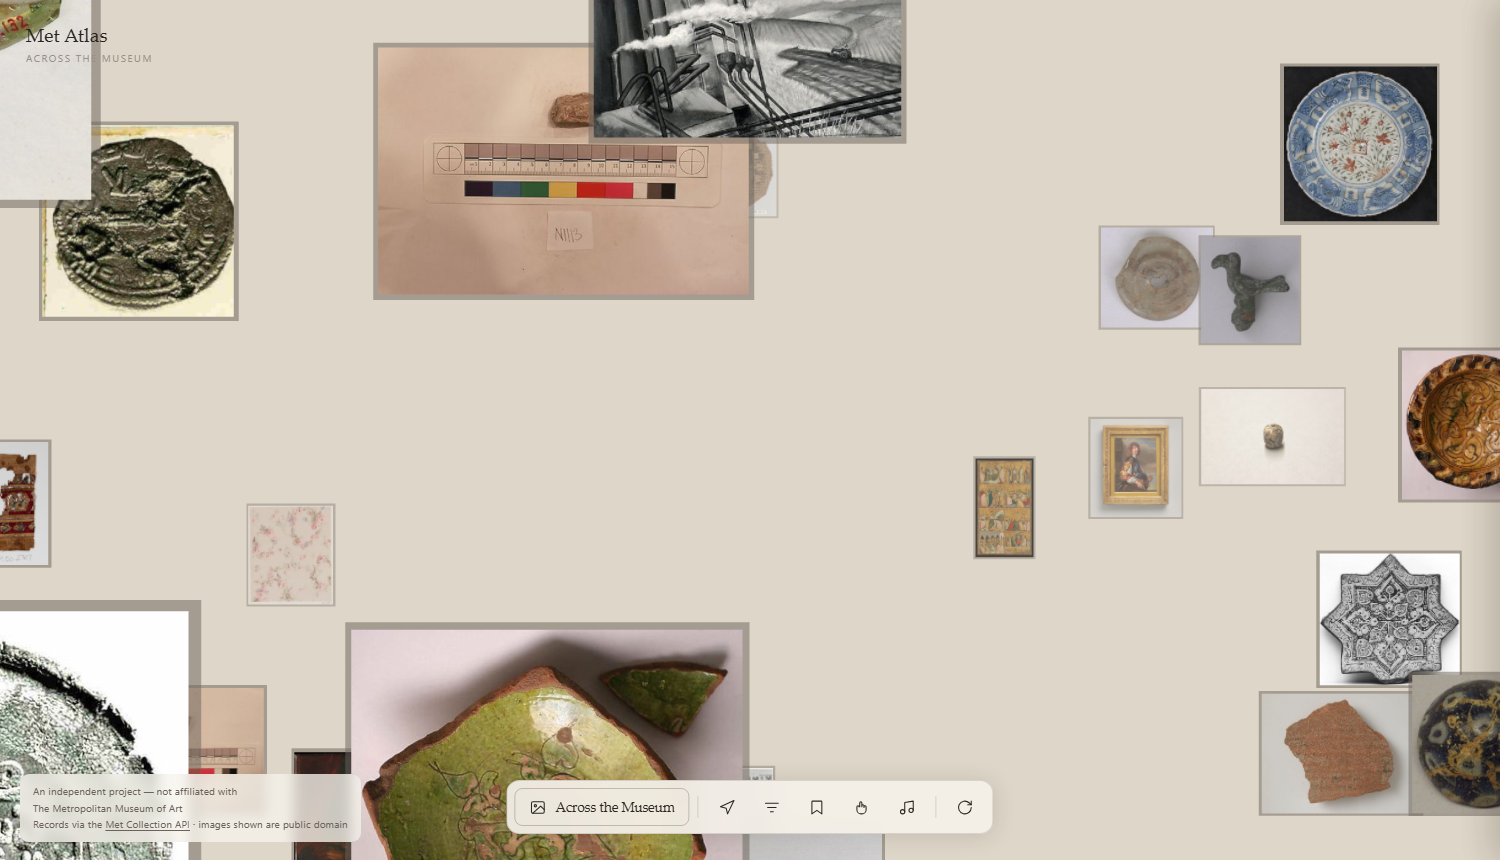
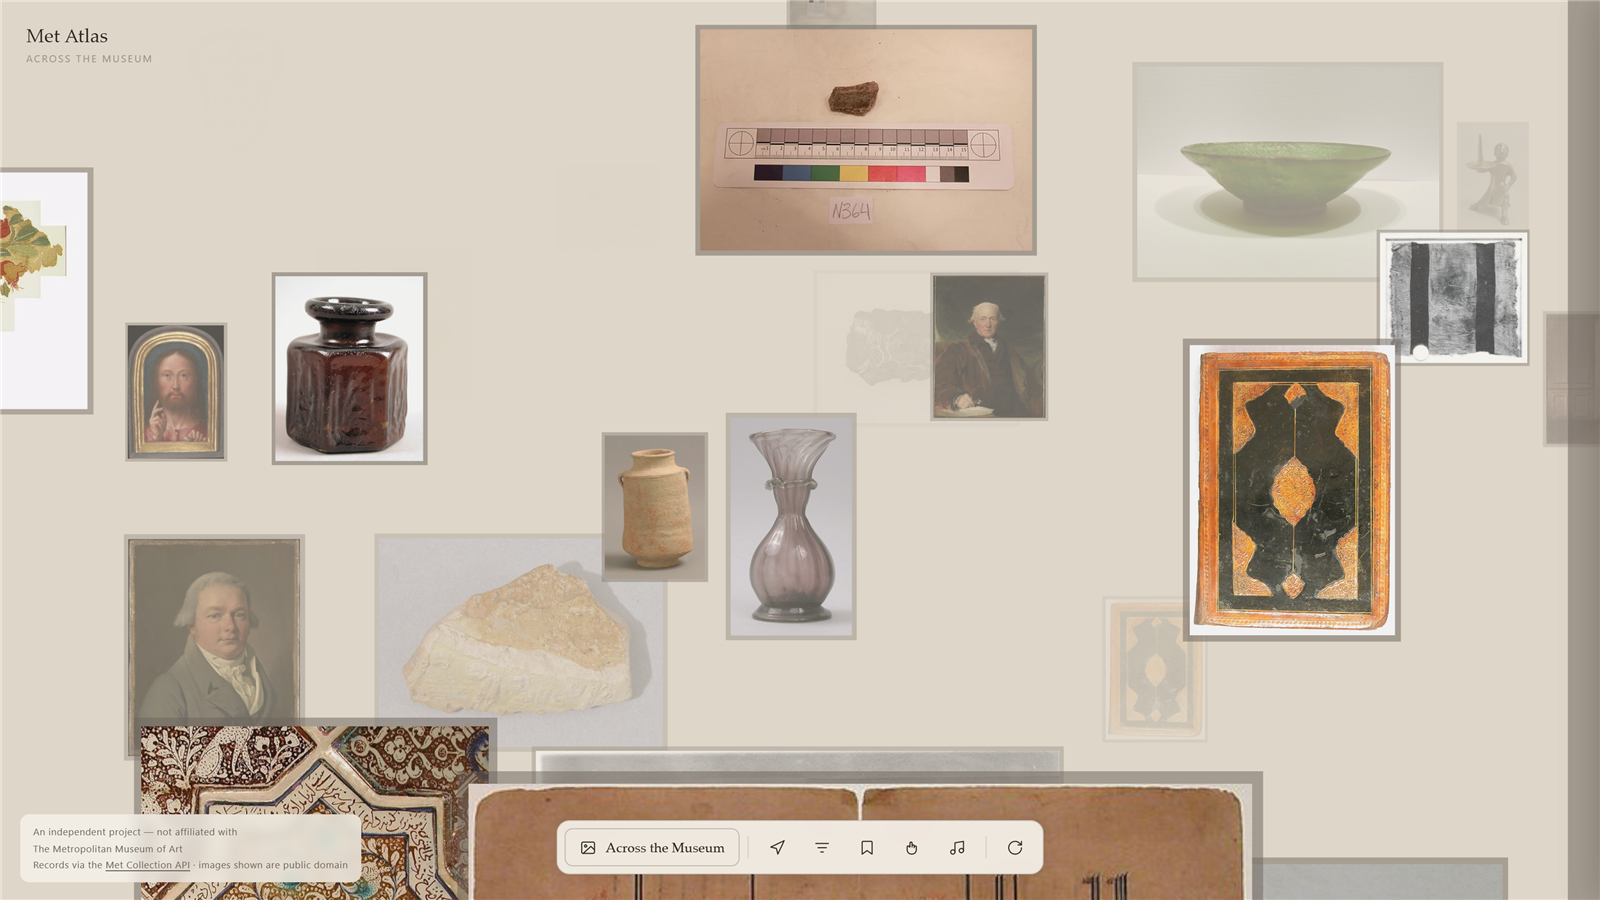
Update README and preview for the chunked field and photo import
The previous preview showed the old recycled-tile field, which is the
sparse, hole-ridden version this work replaced — the screenshot no longer
matched what the app does.

README changes:

- New preview captured from the current build.
- Adds a fourth "why this was harder" section on why repositioning planes
  around a camera was the wrong model, and what the deterministic chunked
  field plus a reference-counted texture cache bought: coverage 40% to
  72-80%, empty grid cells 7 to 2, planes 60 to 270, load rebuilds 25 to 0.
- Documents photo import, including why same-origin blobs skip the proxy
  and therefore allow direct pixel readback for colour extraction.
- Tests section covers the added coverage harness and the duplicate check,
  and records two measurement traps that produced confidently wrong
  numbers: material.opacity is not visibility because fog fades colour
  rather than alpha, and a mean cannot distinguish "new planes arrived"
  from "the field went dark".
- "Still to improve" drops the two items now genuinely fixed (the
  architecture rewrite and the panning artefact) and adds the ones this
  work introduced or left: occasional on-screen duplicates, and imported
  photos being session-only.

diff --git a/README.md b/README.md
@@ -2,8 +2,8 @@
 
 An infinite 3D canvas for The Metropolitan Museum of Art's open collection.
 Fly through a field of public-domain works, click one to travel to it, filter
-and cluster by what the records actually contain — and, if you like, steer it
-with your hands.
+and cluster by what the records actually contain — drop in your own photos to
+explore them the same way — and, if you like, steer it with your hands.
 
 **One HTML file. No framework, no build step, no dependencies to install.**
 
@@ -70,6 +70,38 @@ tight enough that works overlap; and the fog range ends exactly at the field's
 back plane, so works are born the colour of the wall and emerge as they
 approach.
 
+### 4. Moving things around a camera is the wrong model
+
+The first field recycled a fixed pool of 60 planes, repositioning each one as
+the camera passed it. Every serious visual bug in this project came from that
+single decision — works piling onto the camera axis, planes flickering between
+two positions, images appearing in plain sight instead of emerging from the
+fog, large empty regions in frame. Each was a repositioning bug wearing a
+different hat, and each fix broke something else.
+
+The field is now **deterministic and chunked**. Space divides into cubes, and a
+chunk's contents are a pure function of its coordinates — so works are
+*created and destroyed* at chunk boundaries and never moved. That property
+removes the whole class of bug rather than another instance of it.
+
+The unlock was a **reference-counted texture cache keyed by asset id**. Sharing
+textures across planes means 270 planes cost the same memory as the ~45 works
+actually loaded; without it, 270 unshared 560px textures would be roughly
+200 MB. Density stopped being expensive.
+
+Measured against the previous build: frame coverage **40% → 72–80%**, empty
+grid cells **7 → 2**, planes **60 → 270**, at 60fps.
+
+One more subtlety worth recording. Loading used to make the entire field pulse
+about twenty times. Each arriving batch of works rebuilt the field, and a
+rebuild reset every plane's fade to zero — so the field dissolved and returned
+once per batch. The cause was that a plane chose its work with
+`assets[slot % assets.length]`, and `assets.length` changed with every batch,
+re-pointing every slot at something different. Holding that divisor at the
+*expected* final count instead means a plane's work never changes once
+assigned, and slots whose work has not arrived simply stay blank and fill in.
+Rebuilds during a load: **25 → 0**.
+
 ---
 
 ## What it does
@@ -78,8 +110,16 @@ approach.
 - **Wall label** — full museum record: credit line, accession number, dimensions,
   culture, and whether it is *on view right now and in which gallery*
 - **Filter** — date range, colour (computed from image pixels), keyword facets
-  derived from what actually loaded
+  derived from what actually loaded. Non-matching works dim rather than vanish,
+  so a narrow filter shows matches *in context* instead of emptying the field.
 - **Cluster** — regroup the field by department, century, classification or colour
+- **Your own photos** — drag a folder onto the page, or pick files. They become
+  an ordinary source alongside the departments, so filtering, clustering and
+  focus flight all work on them. **Nothing is uploaded**: files are decoded and
+  downscaled in the browser and handed to WebGL as same-origin blobs, so no
+  server sees them and a refresh clears them. Being same-origin they also skip
+  the image proxy entirely, which is what lets colour extraction read their
+  pixels directly.
 - **Starred** — keep works between visits; click one to fly back to it
 - **Gestures** — MediaPipe hand tracking: point to pan, palm to fly, fist to stop,
   peace to focus, two-hand heart to star. Lazy-loaded; the camera is never
@@ -110,16 +150,31 @@ Browser automation under `tests/`, run against a local server:
 cd tests && npm install && node flight-health.mjs
 ```
 
-- `flight-health.mjs` — asserts four field properties **in one pass**: works
-  never pile onto the camera axis, the field is never empty, nothing appears
-  in plain sight, and no tile thrashes between positions.
+- `flight-health.mjs` — asserts five field properties **in one pass**, flying
+  forward, backward and panning: works never pile onto the camera axis, the
+  field is never empty, nothing appears in plain sight, no plane thrashes
+  between positions, and no work is on screen twice.
+- `coverage.mjs` — splits the viewport into a grid and measures what fraction
+  of cells hold a visible work. This is the direct test for "don't leave empty
+  space", which nothing else measured.
 - `classify.mjs` — unit-tests the gesture classifier against synthetic hand
   landmarks, with no camera required.
 
 The single-harness design is deliberate. Written as separate checks, each one
 was blind to the next bug — a distance-based detector can't see a mirrored
-position, and `material.opacity` reports a work as visible when fog has
-rendered it invisible, because **fog fades colour, not alpha**.
+position, which is exactly how a flicker survived a passing pop-in test.
+
+Two measurement traps worth knowing, because both produced confidently wrong
+numbers before being caught:
+
+- **`material.opacity` is not visibility.** Fog fades *colour*, not alpha, so a
+  fully-fogged work still reports opacity 1. A visibility check has to be
+  fog-aware and frustum-aware, or it will report 48 visible works on a blank
+  screen.
+- **A mean is not a per-item measurement.** Mean field opacity dips whenever new
+  planes join at zero, which looks identical to the whole field flashing. Only
+  tracking each plane individually distinguishes "something new arrived" from
+  "everything went dark".
 
 ---
 
@@ -127,23 +182,26 @@ rendered it invisible, because **fog fades colour, not alpha**.
 
 Written down honestly rather than left for someone else to find.
 
-- **Panning can still bring a work uncomfortably close.** Flying forward and
-  backward behave correctly; a fast lateral drag can leave one work large in
-  the frame. See the architecture note below — this is a symptom, not the disease.
-- **Architecture.** The field recycles a fixed pool of tiles to new positions
-  around a moving camera, and essentially every visual bug in this project came
-  from that one decision. A deterministic chunked world — where a chunk's
-  contents are a pure function of its coordinates and works are *created and
-  destroyed* rather than *moved* — removes the whole class. That's the next
-  substantial change.
+- **A work can appear twice in one frame.** The field holds 270 planes drawn
+  from a pool of roughly 45 works, so each appears about six times across the
+  space and occasionally two land in view together — measured at about 20% of
+  frames. Spatial separation makes it rare rather than absent. Fixing it
+  properly means either a much larger pool, which costs API requests the WAF
+  will not give, or making placement pool-aware.
 - **Accessibility.** A WebGL canvas with no keyboard-navigable alternative and
   nothing for a screen reader. A parallel list view of the same records would
-  fix it and isn't hard.
+  fix it and isn't hard. This is the most valuable thing left undone.
 - **Untested on a physical phone.** The layout is responsive and touch gestures
   are implemented, but "responsive in a resized desktop browser" is not the
   same claim.
 - **First load can be slow** when the Met is throttling. The fallback keeps the
   canvas populated, but a genuinely cold visitor may wait.
+- **Imported photos are session-only.** Deliberate, and stated in the panel
+  before you drop anything in. Starring one keeps a small embedded thumbnail so
+  the entry survives a reload, but the photo itself is gone until re-imported —
+  the starred rail says so rather than pretending otherwise. Persisting them
+  properly means IndexedDB, and reading real capture dates means an EXIF
+  parser; neither is hard, both were out of scope.
 
 ---
 
